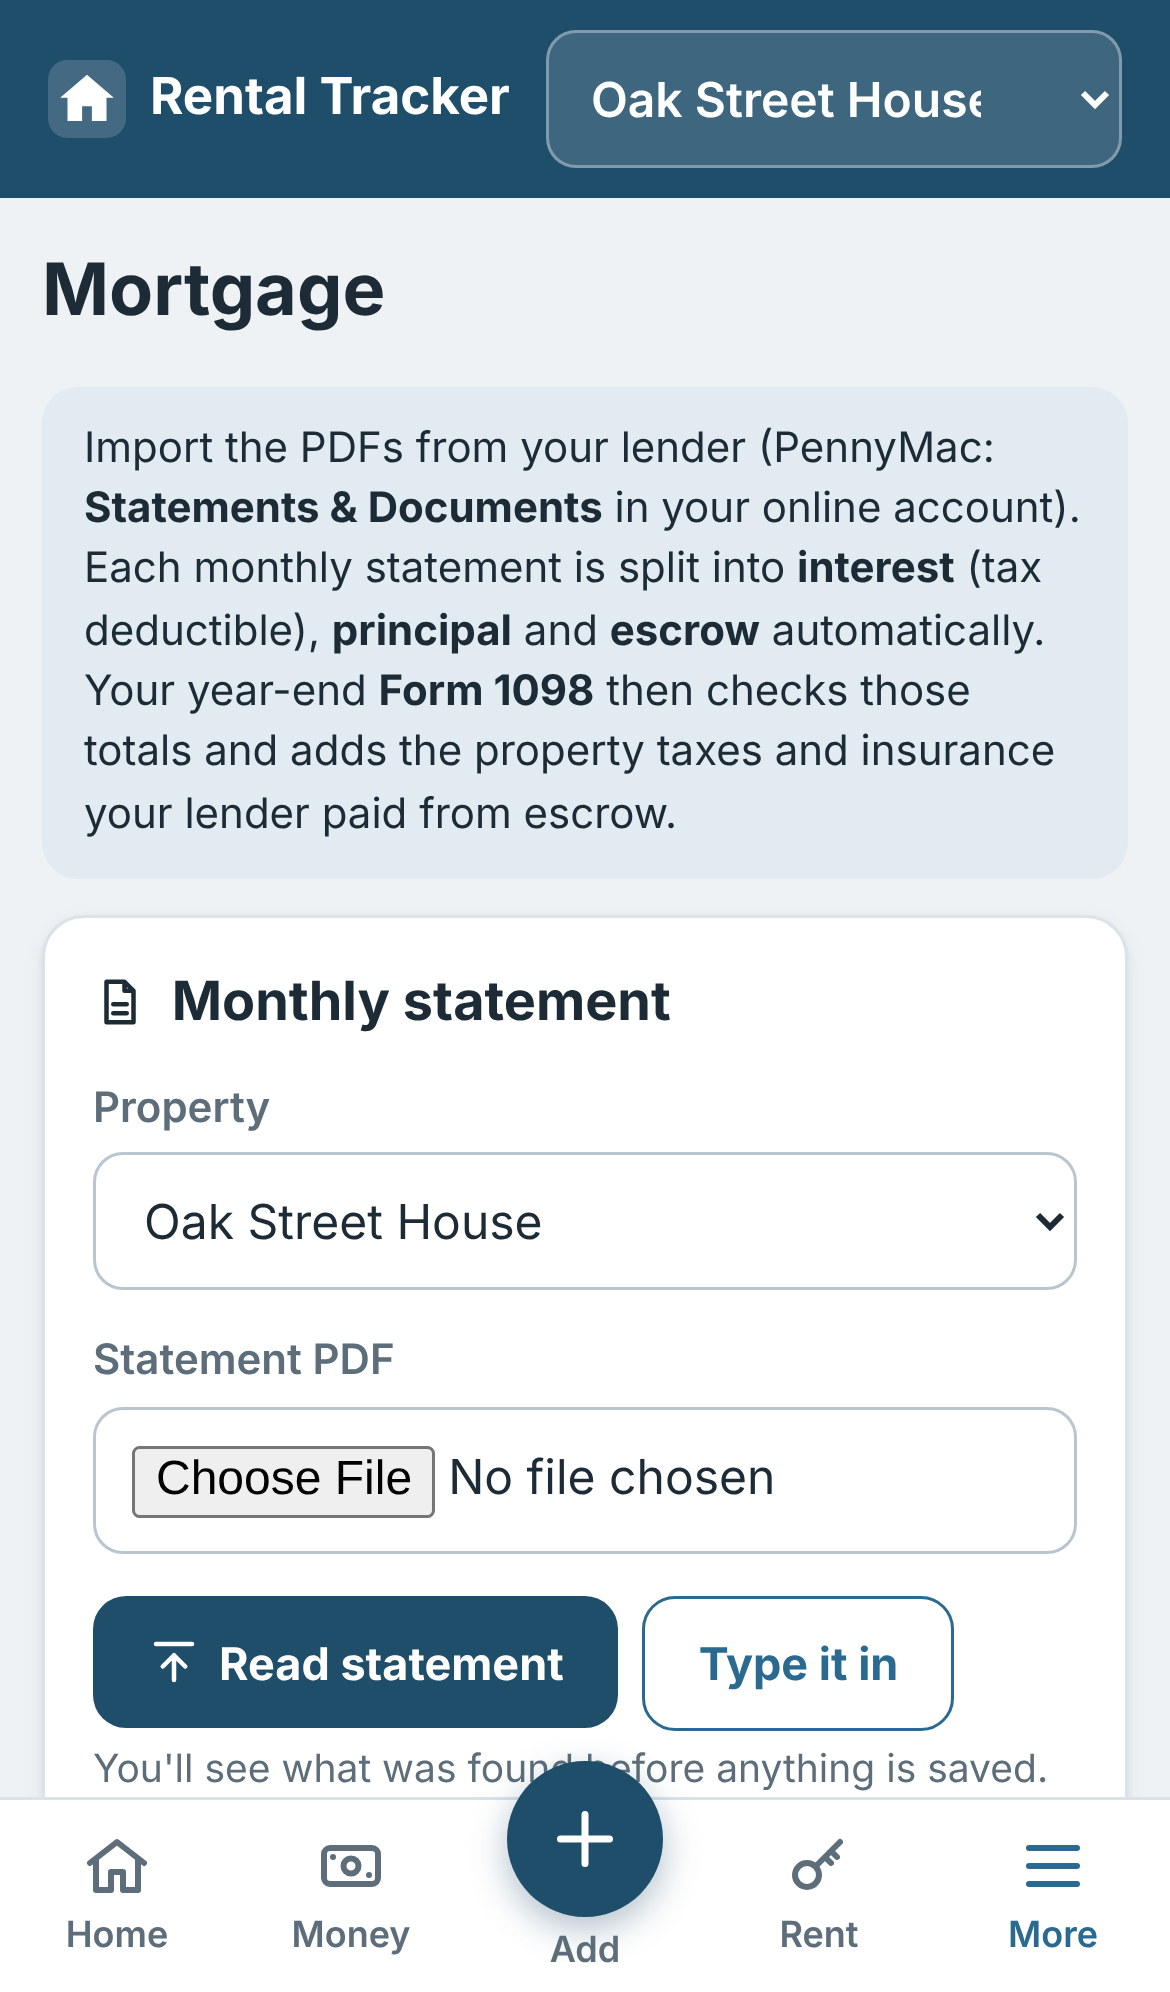
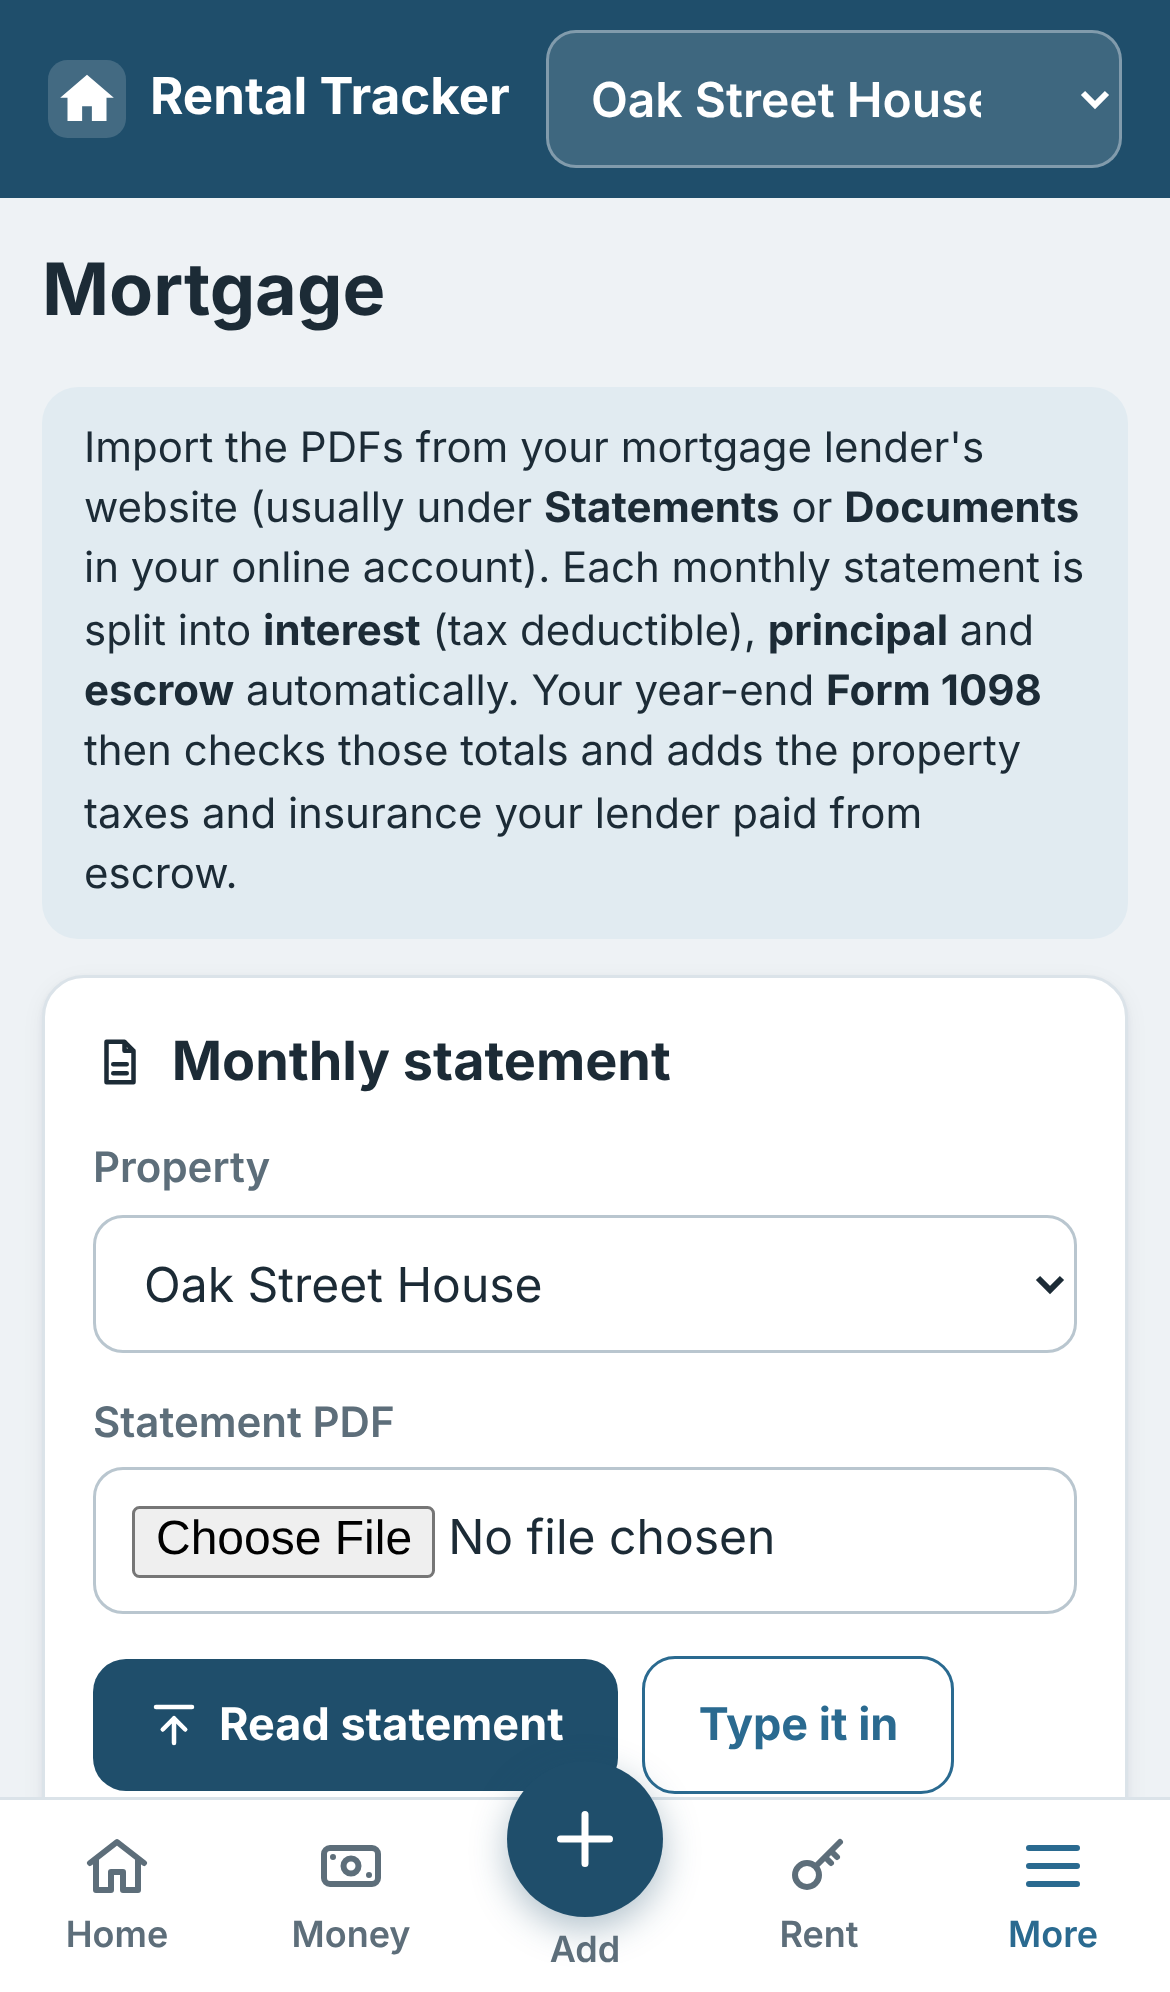
Make mortgage import wording lender-neutral
- Remove lender-specific names from the Mortgage page, review screens,
  README and HOW_TO_RUN; refer to "your mortgage lender" instead
- Drop the built-in list of lender names used to pre-fill the Lender field;
  it now remembers the lender you last used for that property
- Retake README screenshots with a fictional demo lender

Claude-Session: https://claude.ai/code/session_01W93D3YYt2R5d5dLUQz6Aa4

diff --git a/templates/f1098_review.html b/templates/f1098_review.html
@@ -4,7 +4,7 @@
 {% macro mv(v) %}{{ '%.2f'|format(v) if v is number else '' }}{% endmacro %}
 <div class="head"><h1>Form 1098 check · {{ year }}</h1></div>
 {% for w in warn %}<div class="note" style="background:var(--warn-soft);color:var(--warn)">{{ icon('alert') }} {{ w }}</div>{% endfor %}
-{% if p.found %}<div class="flash">{{ icon('check') }} Read your 1098{{ ' from ' + p.lender if p.lender }}. Check the numbers, then save.</div>{% endif %}
+{% if p.found %}<div class="flash">{{ icon('check') }} Read your 1098. Check the numbers, then save.</div>{% endif %}
 <form method="get" action="{{ url_for('form1098_review') }}" class="card flat row-btns" style="padding:12px">
   <label for="yr" style="margin:0">Tax year</label><input id="yr" name="year" type="number" value="{{ year }}" style="max-width:120px">
   <input type="hidden" name="property_id" value="{{ pid }}">{% if not up %}<button class="btn sm ghost">Change</button>{% else %}<span class="hint">from the form</span>{% endif %}
@@ -13,7 +13,7 @@
   {% if up %}<input type="hidden" name="stored" value="{{ up[0] }}"><input type="hidden" name="filename" value="{{ up[1] }}"><input type="hidden" name="sha" value="{{ up[2] }}">{% endif %}
   <input type="hidden" name="year" value="{{ year }}"><input type="hidden" name="box2" value="{{ p.principal or '' }}">
   <section class="card fields two">
-    <div><label for="lender">Lender</label><input id="lender" name="lender" value="{{ lender }}" placeholder="e.g. PennyMac"></div>
+    <div><label for="lender">Lender</label><input id="lender" name="lender" value="{{ lender }}" placeholder="e.g. your mortgage company"></div>
     {{ property_select(pid) }}
   </section>
   <section class="card"><h2>Compare &amp; adjust</h2>

diff --git a/templates/statement_review.html b/templates/statement_review.html
@@ -4,7 +4,7 @@
 {% macro mv(v) %}{{ '%.2f'|format(v) if v is number else '' }}{% endmacro %}
 <div class="head"><h1>{{ 'Check your statement' if up else 'Enter a mortgage payment' }}</h1></div>
 {% for w in warn %}<div class="note" style="background:var(--warn-soft);color:var(--warn)">{{ icon('alert') }} {{ w }}</div>{% endfor %}
-{% if p.found %}<div class="flash">{{ icon('check') }} Found the payment breakdown{{ ' from ' + p.lender if p.lender }}. Check the numbers, then save.</div>{% endif %}
+{% if p.found %}<div class="flash">{{ icon('check') }} Found the payment breakdown. Check the numbers, then save.</div>{% endif %}
 <form method="post" action="{{ url_for('statement_save') }}">
   {% if up %}<input type="hidden" name="stored" value="{{ up[0] }}"><input type="hidden" name="filename" value="{{ up[1] }}"><input type="hidden" name="sha" value="{{ up[2] }}">{% endif %}
   <input type="hidden" name="statement_date" value="{{ p.statement_date or '' }}">
@@ -12,7 +12,7 @@
   <section class="card fields two">
     <div><label for="paid_date">Payment date</label><input type="date" id="paid_date" name="paid_date" value="{{ paid.isoformat() }}" required>
       <div class="hint">The payment this statement shows as “paid last month”.</div></div>
-    <div><label for="lender">Lender</label><input id="lender" name="lender" value="{{ lender }}" list="lenders" placeholder="e.g. PennyMac">
+    <div><label for="lender">Lender</label><input id="lender" name="lender" value="{{ lender }}" list="lenders" placeholder="e.g. your mortgage company">
       <datalist id="lenders">{% for l in lenders %}<option value="{{ l }}">{% endfor %}</datalist></div>
     {{ property_select(pid) }}
   </section>

diff --git a/templates/mortgage.html b/templates/mortgage.html
@@ -2,7 +2,7 @@
 {% block title %}Mortgage{% endblock %}
 {% block content %}
 <div class="head"><h1>Mortgage</h1></div>
-<p class="note">Import the PDFs from your lender (PennyMac: <b>Statements &amp; Documents</b> in your online account).
+<p class="note">Import the PDFs from your mortgage lender's website (usually under <b>Statements</b> or <b>Documents</b> in your online account).
 Each monthly statement is split into <b>interest</b> (tax deductible), <b>principal</b> and <b>escrow</b> automatically.
 Your year-end <b>Form 1098</b> then checks those totals and adds the property taxes and insurance your lender paid from escrow.</p>
 

diff --git a/mortgage.py b/mortgage.py
@@ -2,7 +2,7 @@
 mortgage.py - read mortgage statements and Form 1098 PDFs
 ==========================================================
 Pulls the numbers out of:
-  * a monthly mortgage statement (PennyMac or any US servicer). Federal rules
+  * a monthly mortgage statement from any US lender or loan servicer. Federal rules
     (CFPB, Regulation Z 1026.41) require every statement to show a "Past Payments
     Breakdown" with principal, interest, escrow and fees, so we look for that.
   * IRS Form 1098 (Mortgage Interest Statement): numbered boxes 1-11.
@@ -97,14 +97,6 @@ def section(text, start, ends, limit=1500):
     cut = [e.start() for pat in ends for e in [re.search(pat, rest, re.I)] if e]
     return rest[:min(cut)] if cut else rest
 
-def lender_name(text):
-    t = text.lower()
-    for key, name in (("pennymac", "PennyMac"), ("rocket mortgage", "Rocket Mortgage"), ("mr. cooper", "Mr. Cooper"),
-                      ("wells fargo", "Wells Fargo"), ("chase", "Chase"), ("newrez", "Newrez"), ("loancare", "LoanCare"),
-                      ("freedom mortgage", "Freedom Mortgage"), ("us bank", "U.S. Bank"), ("u.s. bank", "U.S. Bank")):
-        if key in t: return name
-    return ""
-
 
 # ---------- MONTHLY STATEMENT ----------
 ROWS = [("principal", r"\bprincipal\b(?!\s*(?:balance|reduction))"),
@@ -137,7 +129,7 @@ def breakdown(sec):
 
 def parse_statement(text):
     """Pull the useful numbers out of a monthly mortgage statement."""
-    out = {"found": False, "source": "", "lender": lender_name(text)}
+    out = {"found": False, "source": ""}
     past = table(text, r"past payments? breakdown", [h for h in HEADINGS if "past" not in h])
     last, ytd = breakdown(past) if past else ({}, {})
     if last:
@@ -196,7 +188,7 @@ def box_amount(text, n):
 
 def parse_1098(text):
     """Pull the boxes out of a Form 1098 (plus property tax / insurance paid from escrow if listed)."""
-    out = {"lender": lender_name(text)}
+    out = {}
     for n, key in ((1, "interest"), (2, "principal"), (4, "refund"), (5, "mip"), (6, "points"), (10, "other")):
         out[key] = box_amount(text, n)
     # Property taxes / insurance paid from escrow: often in box 10 ("Other") or on a supplemental page

diff --git a/app.py b/app.py
@@ -657,7 +657,7 @@ def statement_review():
                     "). Pause it on the Recurring bills page so payments aren't counted twice.")
     lenders = [r["name"] for r in db().execute("SELECT name FROM vendors ORDER BY name")]
     return render_template("statement_review.html", p=p, paid=paid, up=up, warn=warn, pid=pid, lenders=lenders,
-                           lender=p.get("lender") or last_lender(pid))
+                           lender=last_lender(pid))
 
 def last_lender(pid):
     row = db().execute("SELECT v.name FROM transactions t JOIN vendors v ON v.id=t.vendor_id WHERE t.property_id=? "
@@ -732,7 +732,7 @@ def form1098_review():
     rows.append({"key": "mip", "label": "Mortgage insurance premiums (box 5)", "src": p.get("mip"), "have": None,
                  "add": p.get("mip") or None})
     return render_template("f1098_review.html", p=p, up=up, warn=warn, pid=pid, year=year, rows=rows,
-                           lender=p.get("lender") or last_lender(pid))
+                           lender=last_lender(pid))
 
 @app.route("/mortgage/1098/save", methods=["POST"])
 def form1098_save():

diff --git a/README.md b/README.md
@@ -23,7 +23,7 @@ never sent anywhere. It's built to be used from your phone: open it in your phon
   once and they're added automatically each time they come due.
 - **Search and filter** by text, year, category, vendor, date range or amount, then **export to CSV**.
 
-**Mortgage (PennyMac or any US lender)**
+**Mortgage (any US lender)**
 - **Import your monthly mortgage statement (PDF).** The app reads the *Past Payments Breakdown* that every
   US mortgage statement is required to include, and splits the payment into **interest** (tax deductible),
   **principal** and **escrow**. You check the numbers on a review screen before anything is saved.
@@ -71,8 +71,8 @@ never sent anywhere. It's built to be used from your phone: open it in your phon
 <img src="docs/screenshots/phone-1098-review.png" width="230" alt="Comparing a Form 1098">
 </p>
 
-1. Download the PDF from your lender's website. For PennyMac, sign in and open **Statements & Documents**.
-   Monthly statements are there, and your **Form 1098** appears by January 31.
+1. Download the PDF from your mortgage lender's website, usually under **Statements** or **Documents** in your
+   online account. Monthly statements are there, and your **Form 1098** appears by January 31.
 2. In the app go to **More → Mortgage**, pick the property and the PDF, and tap **Read statement** (or **Read 1098**).
 3. Check the numbers on the review screen and tap **Save**.
 
@@ -100,7 +100,7 @@ You can also tick this option yourself when adding a Property taxes or Insurance
 **Good to know**
 - Works with PDFs downloaded from the lender's website. A photo or scan has no readable text, so you'd type the numbers in.
 - The reader looks for the standard section names and box labels, not one exact page layout, so it should work for
-  PennyMac and most other US servicers. If something comes out wrong, fix it on the review screen.
+  most US lenders and loan servicers. If something comes out wrong, fix it on the review screen.
 - Importing the same file twice is blocked. Importing a second 1098 for the same year replaces the first one's adjustments.
 - **Undo** on the Mortgage page removes an import and every entry it created.
 - If you set up a recurring bill for the mortgage, pause it when you start importing statements (the app warns you).

diff --git a/HOW_TO_RUN.md b/HOW_TO_RUN.md
@@ -39,8 +39,9 @@ Then open your browser to **http://localhost:8080**
 - Tap any item in **Money** to edit or delete it.
 - **Reports** has your Schedule E summary and a **PDF report** button for tax time.
 
-## Import your mortgage statements (PennyMac)
-1. Sign in to PennyMac on their website and open **Statements & Documents**. Download the monthly statement PDF.
+## Import your mortgage statements
+1. Sign in to your mortgage lender's website and find your statements (usually under **Statements** or **Documents**).
+   Download the monthly statement PDF.
 2. In the app: **More → Mortgage**. Choose the property and the PDF, then tap **Read statement**.
 3. Check the interest, principal and escrow amounts, then tap **Save payment**.
 4. Each January, do the same with your **Form 1098** (tap **Read 1098**). The app compares it with what you
